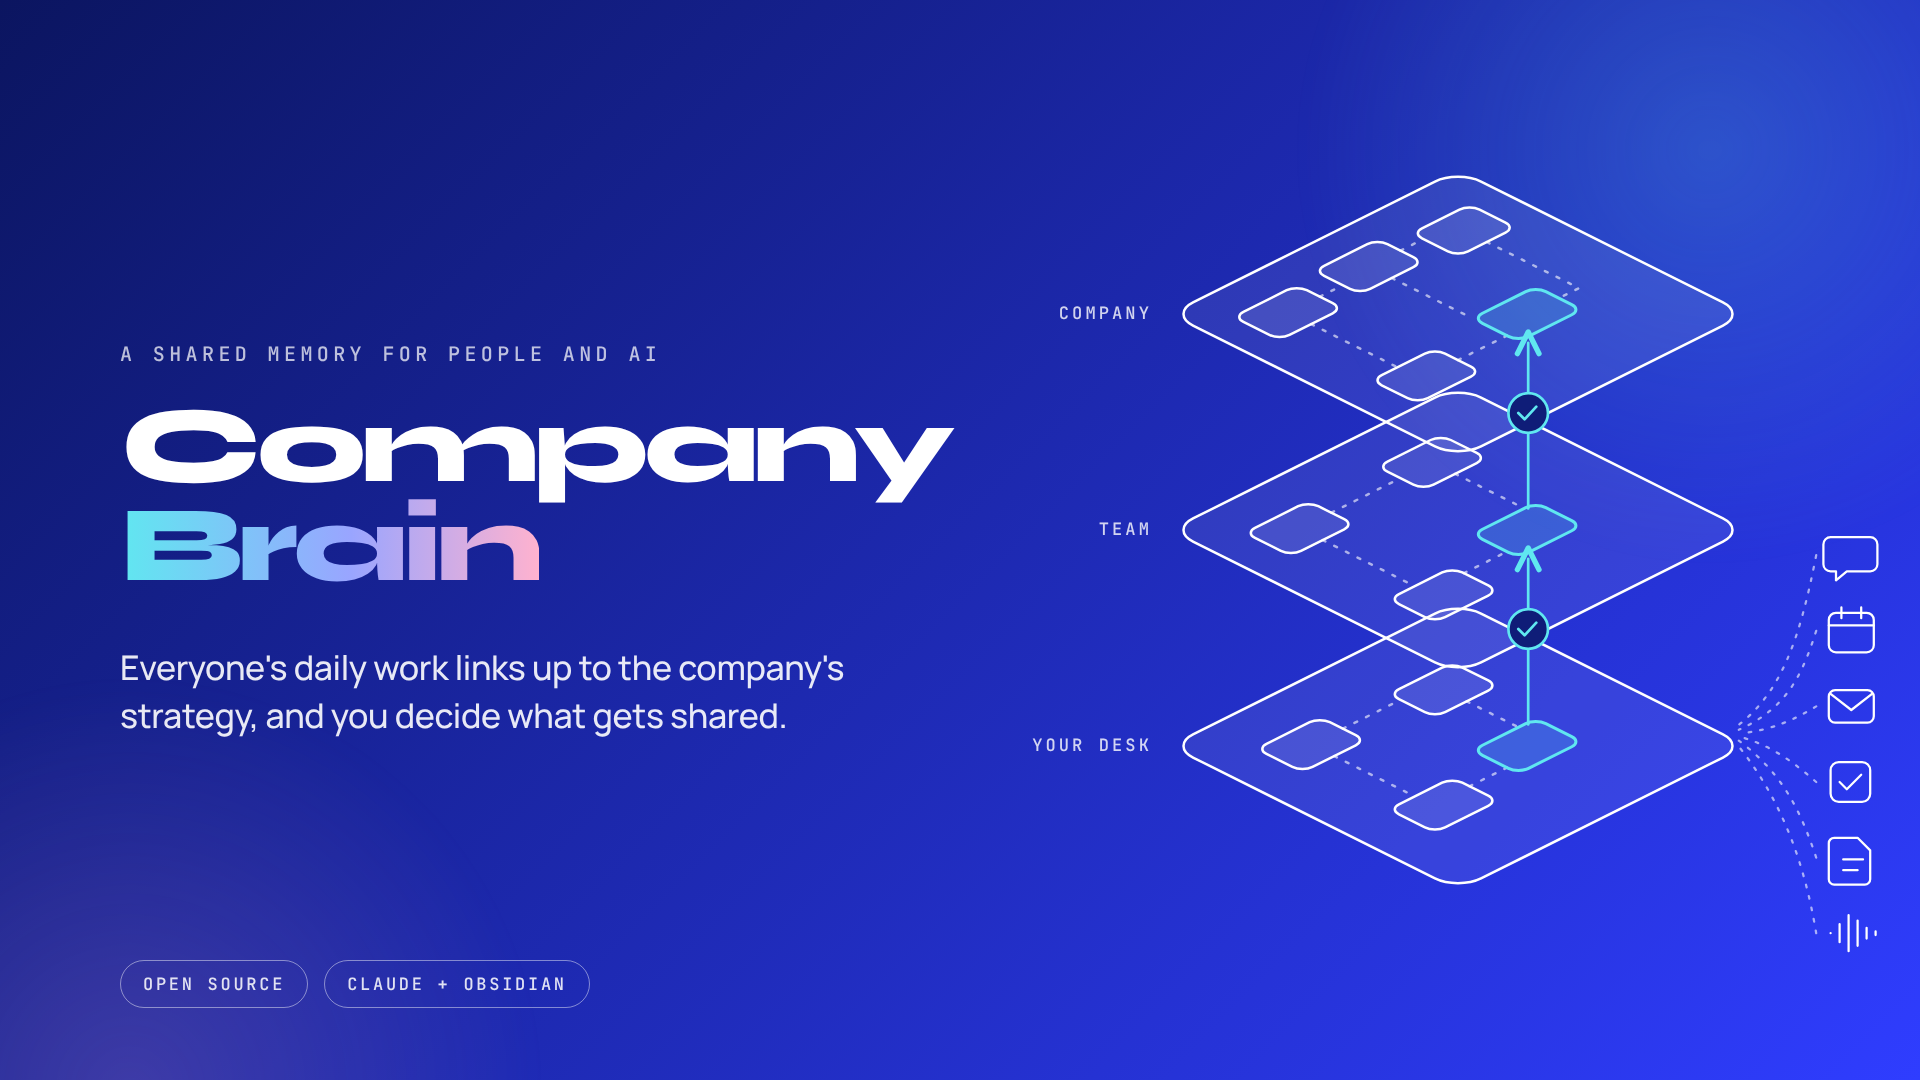
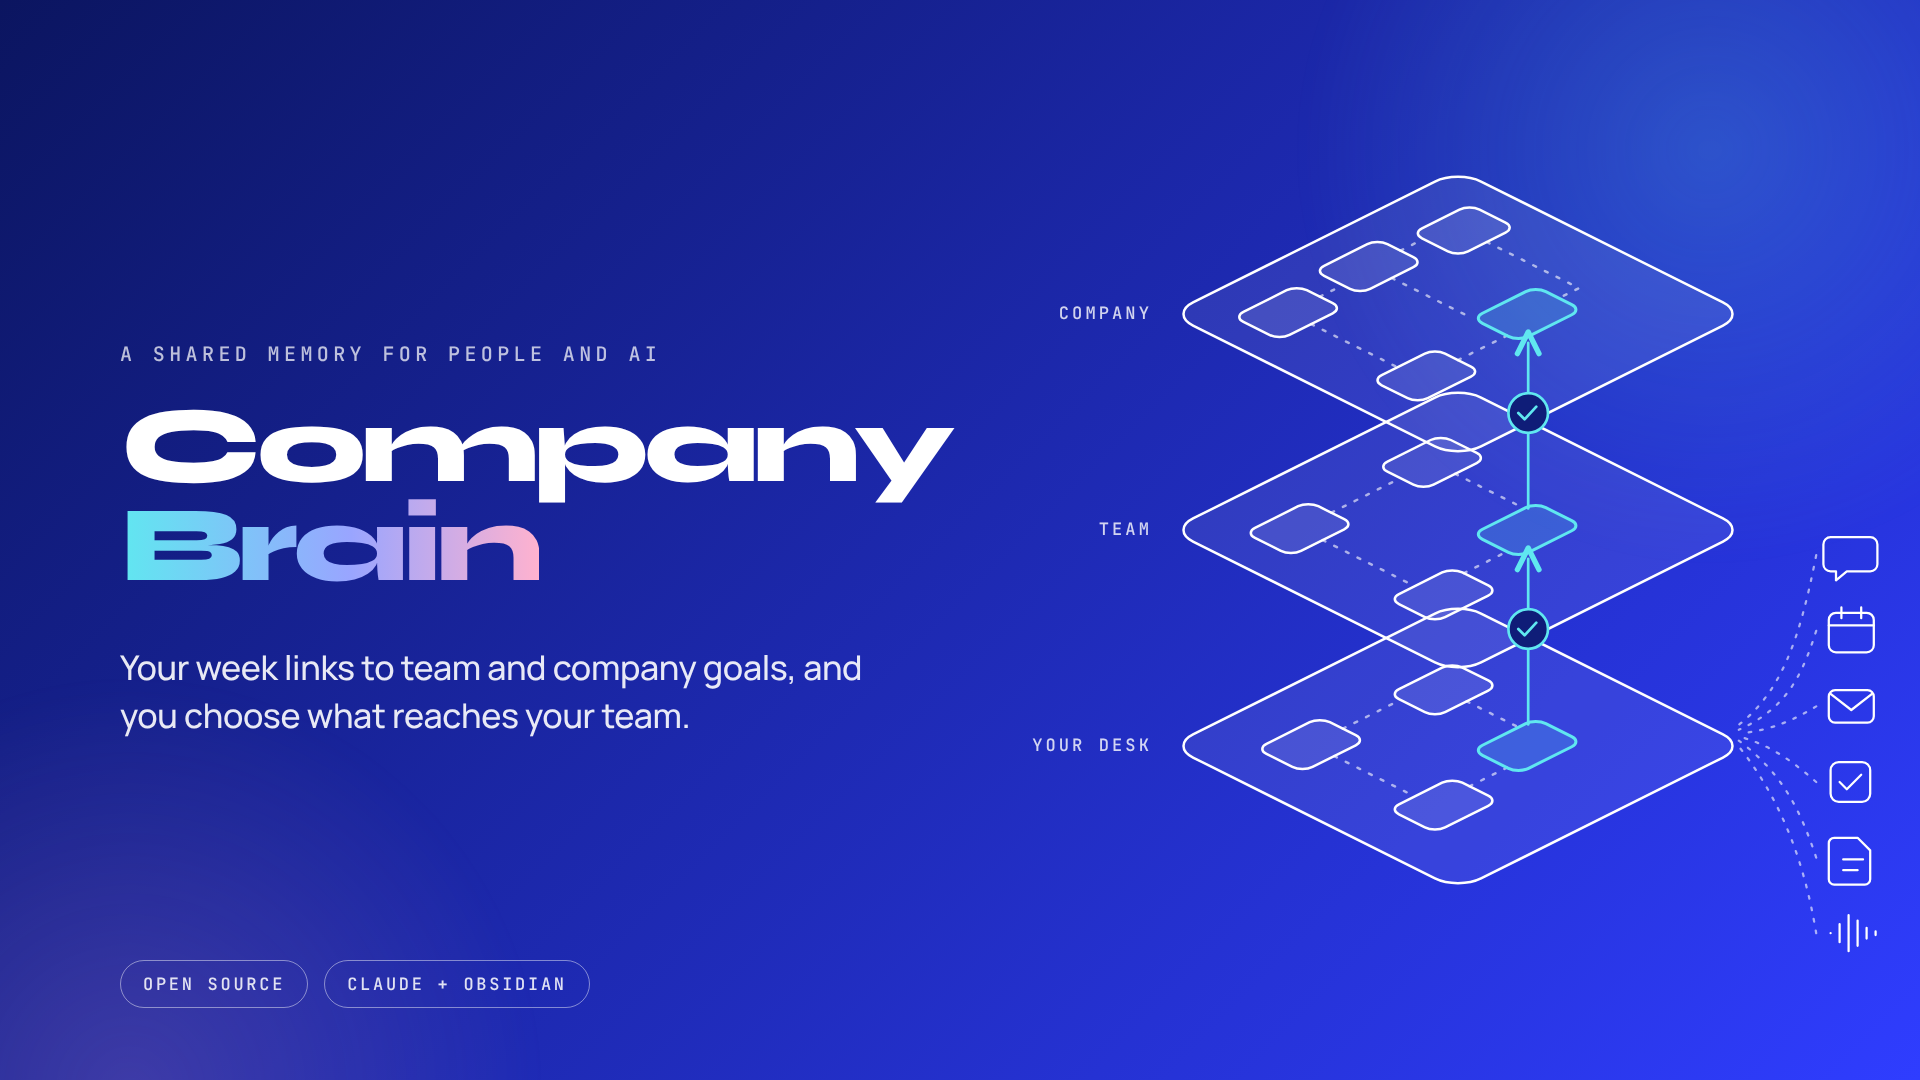
Cover: tagline about the mechanism, at the user's choice
"Your week links to team and company goals, and you choose what reaches
your team." replaces "Everyone's daily work links up to the company's
strategy, and you decide what gets shared.", which promised an outcome.
Rendered at 1920x1080, 1x; two lines.

Claude-Session: https://claude.ai/code/session_01MomxP67ukTRV34RoJaBaNR

Changed region(s): [[0.0625, 0.6111, 0.4688, 0.6722]]

diff --git a/examples/linkedin-company-brain-short/01-cover.html b/examples/linkedin-company-brain-short/01-cover.html
@@ -8,6 +8,7 @@
   with the cover title set in HTML (rendered to PNG, so web fonts are fine).
   Subject: three stacked floors (personal, team, company); your tools feed the bottom floor;
   one note climbs, in aqua, only when you say yes. Copy rewritten 2026-11-09 for the short article.
+  Tagline changed 2026-11-10 at the user's choice: the mechanism (your week links to the goals, you choose what reaches your team) instead of a promise.
 -->
 <link href="https://fonts.googleapis.com/css2?family=Syne:wght@700;800&family=Manrope:wght@400;500;600&family=JetBrains+Mono:wght@500&display=swap" rel="stylesheet">
 <style>
@@ -38,7 +39,7 @@ svg.art{position:absolute;left:990px;top:62px}
   <div class="copy">
     <div class="mono">A shared memory for people and AI</div>
     <h1><span>Company</span><span class="accent">Brain</span></h1>
-    <p class="tag">Everyone's daily work links up to the company's strategy, and you decide what gets shared.</p>
+    <p class="tag">Your week links to team and company goals, and you choose what reaches your team.</p>
   </div>
   <div class="foot">
     <span class="pill">Open source</span>
